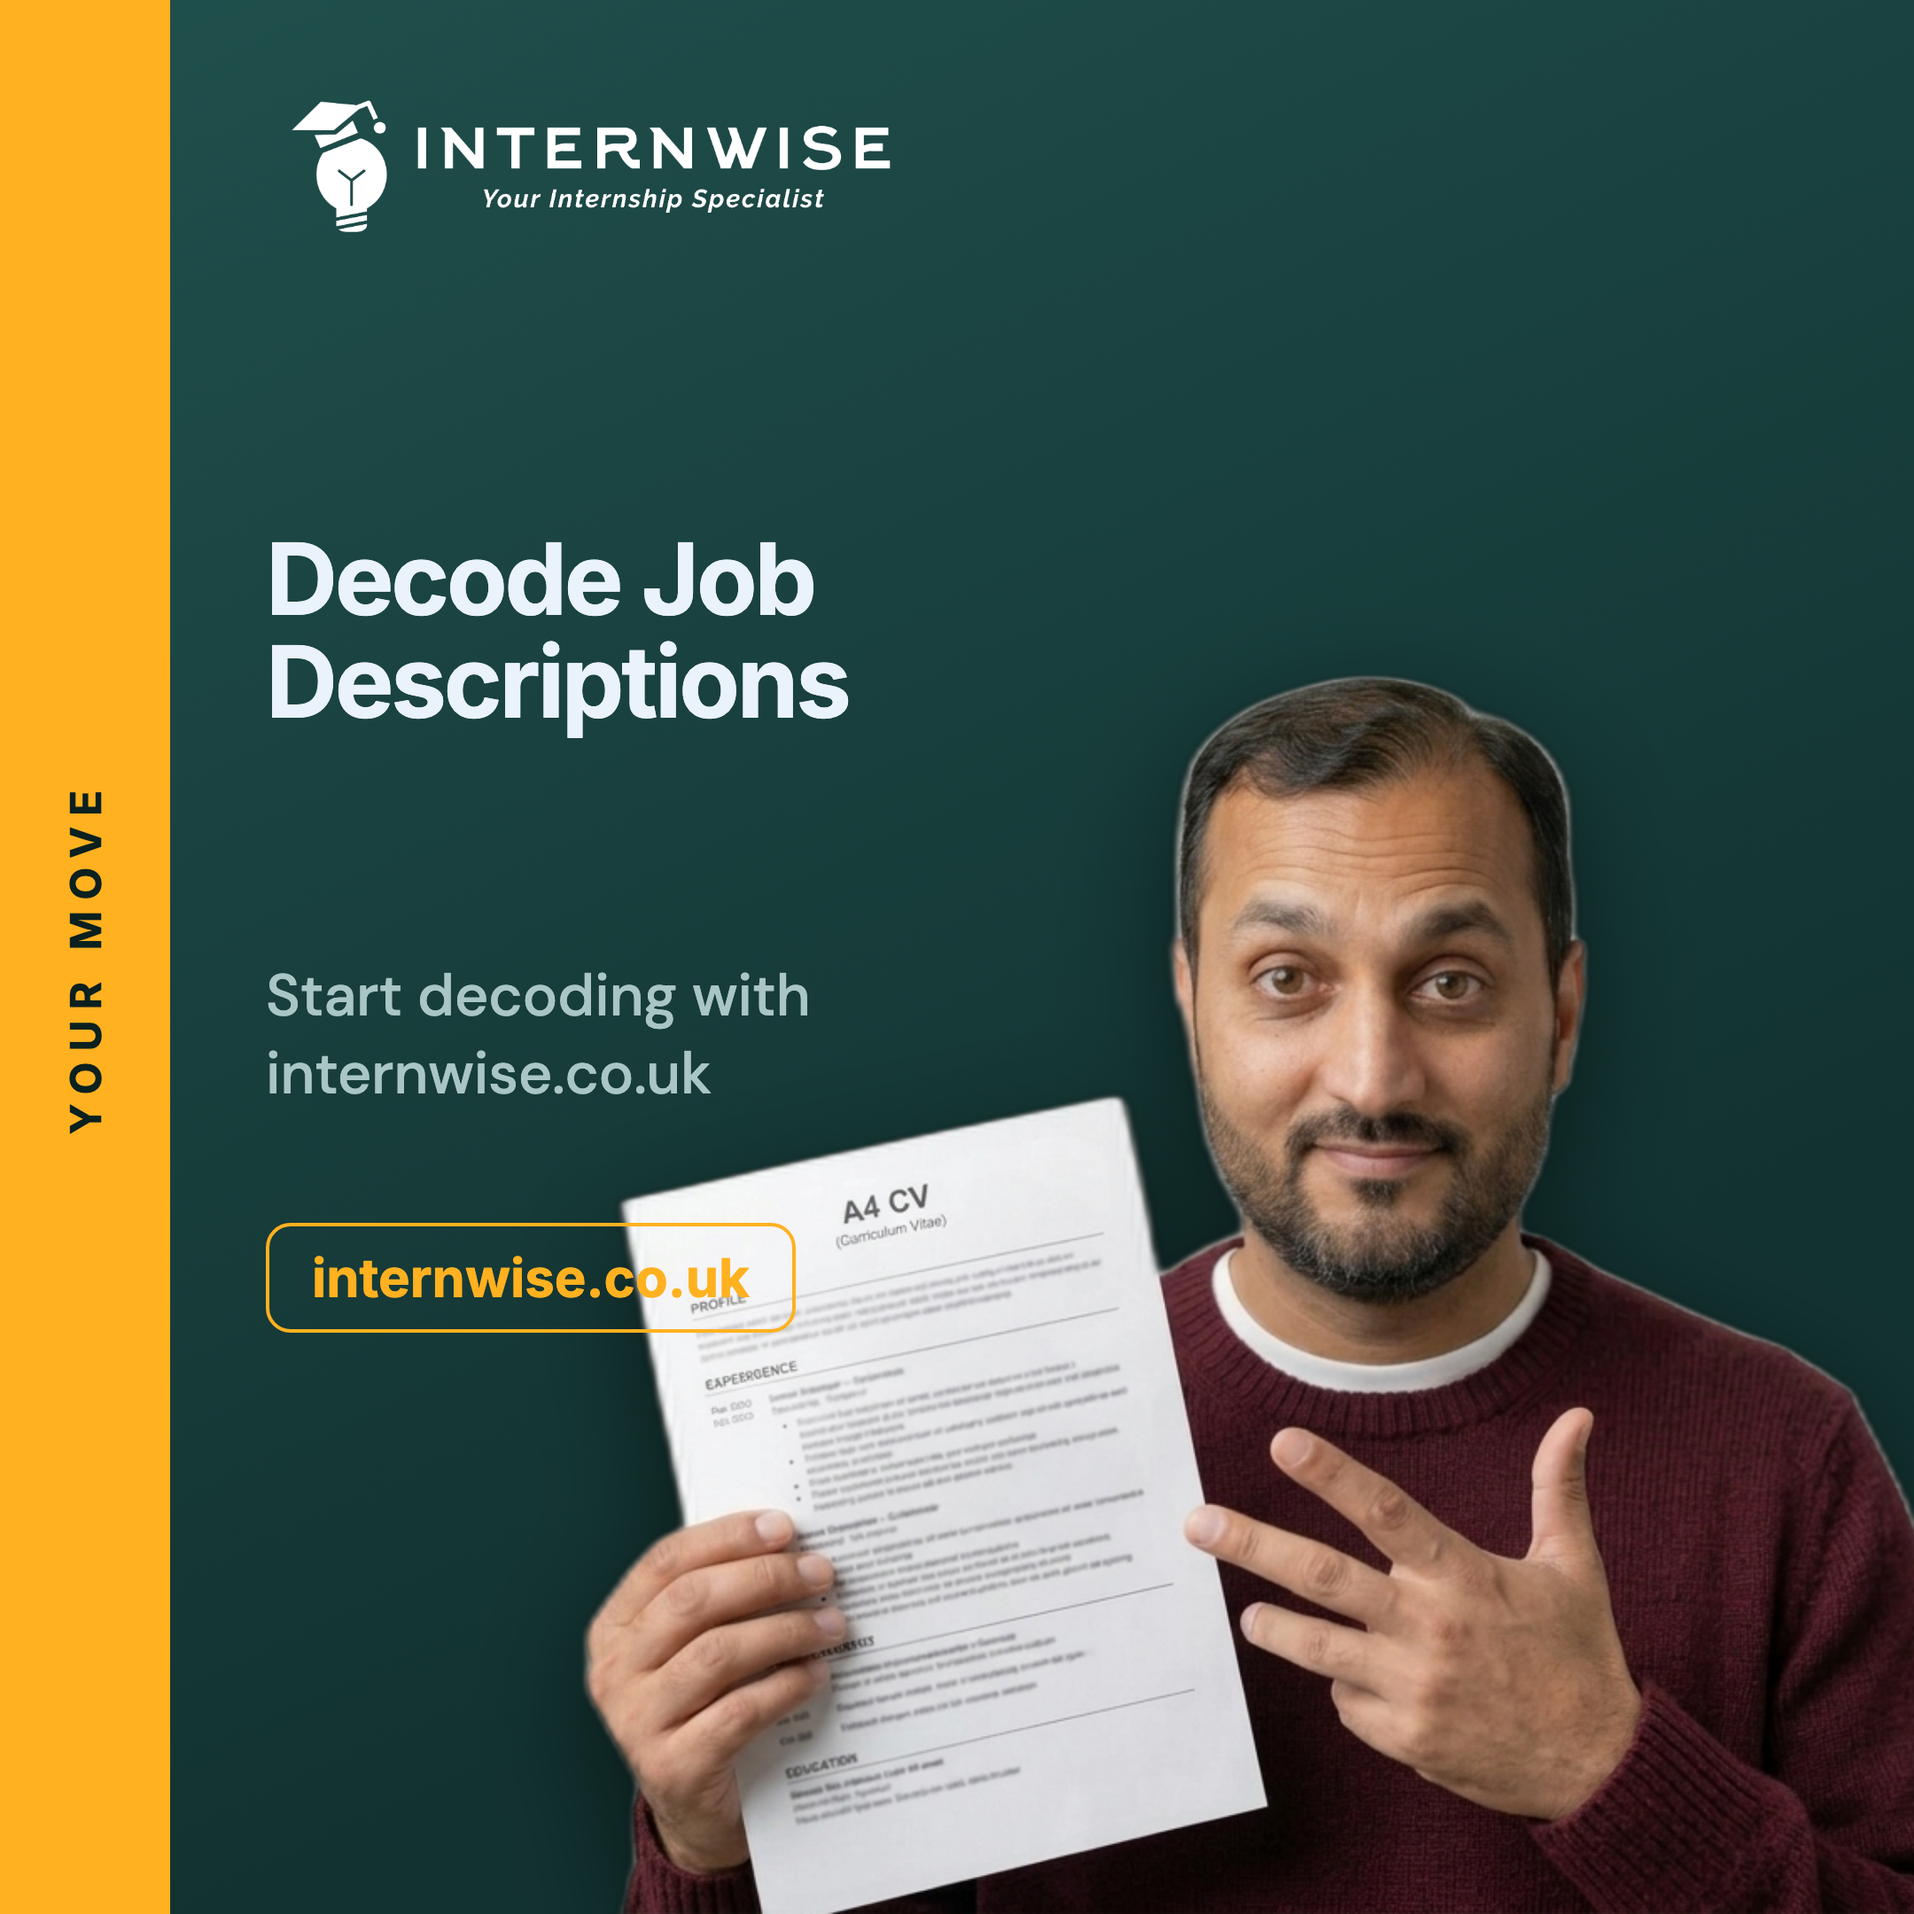
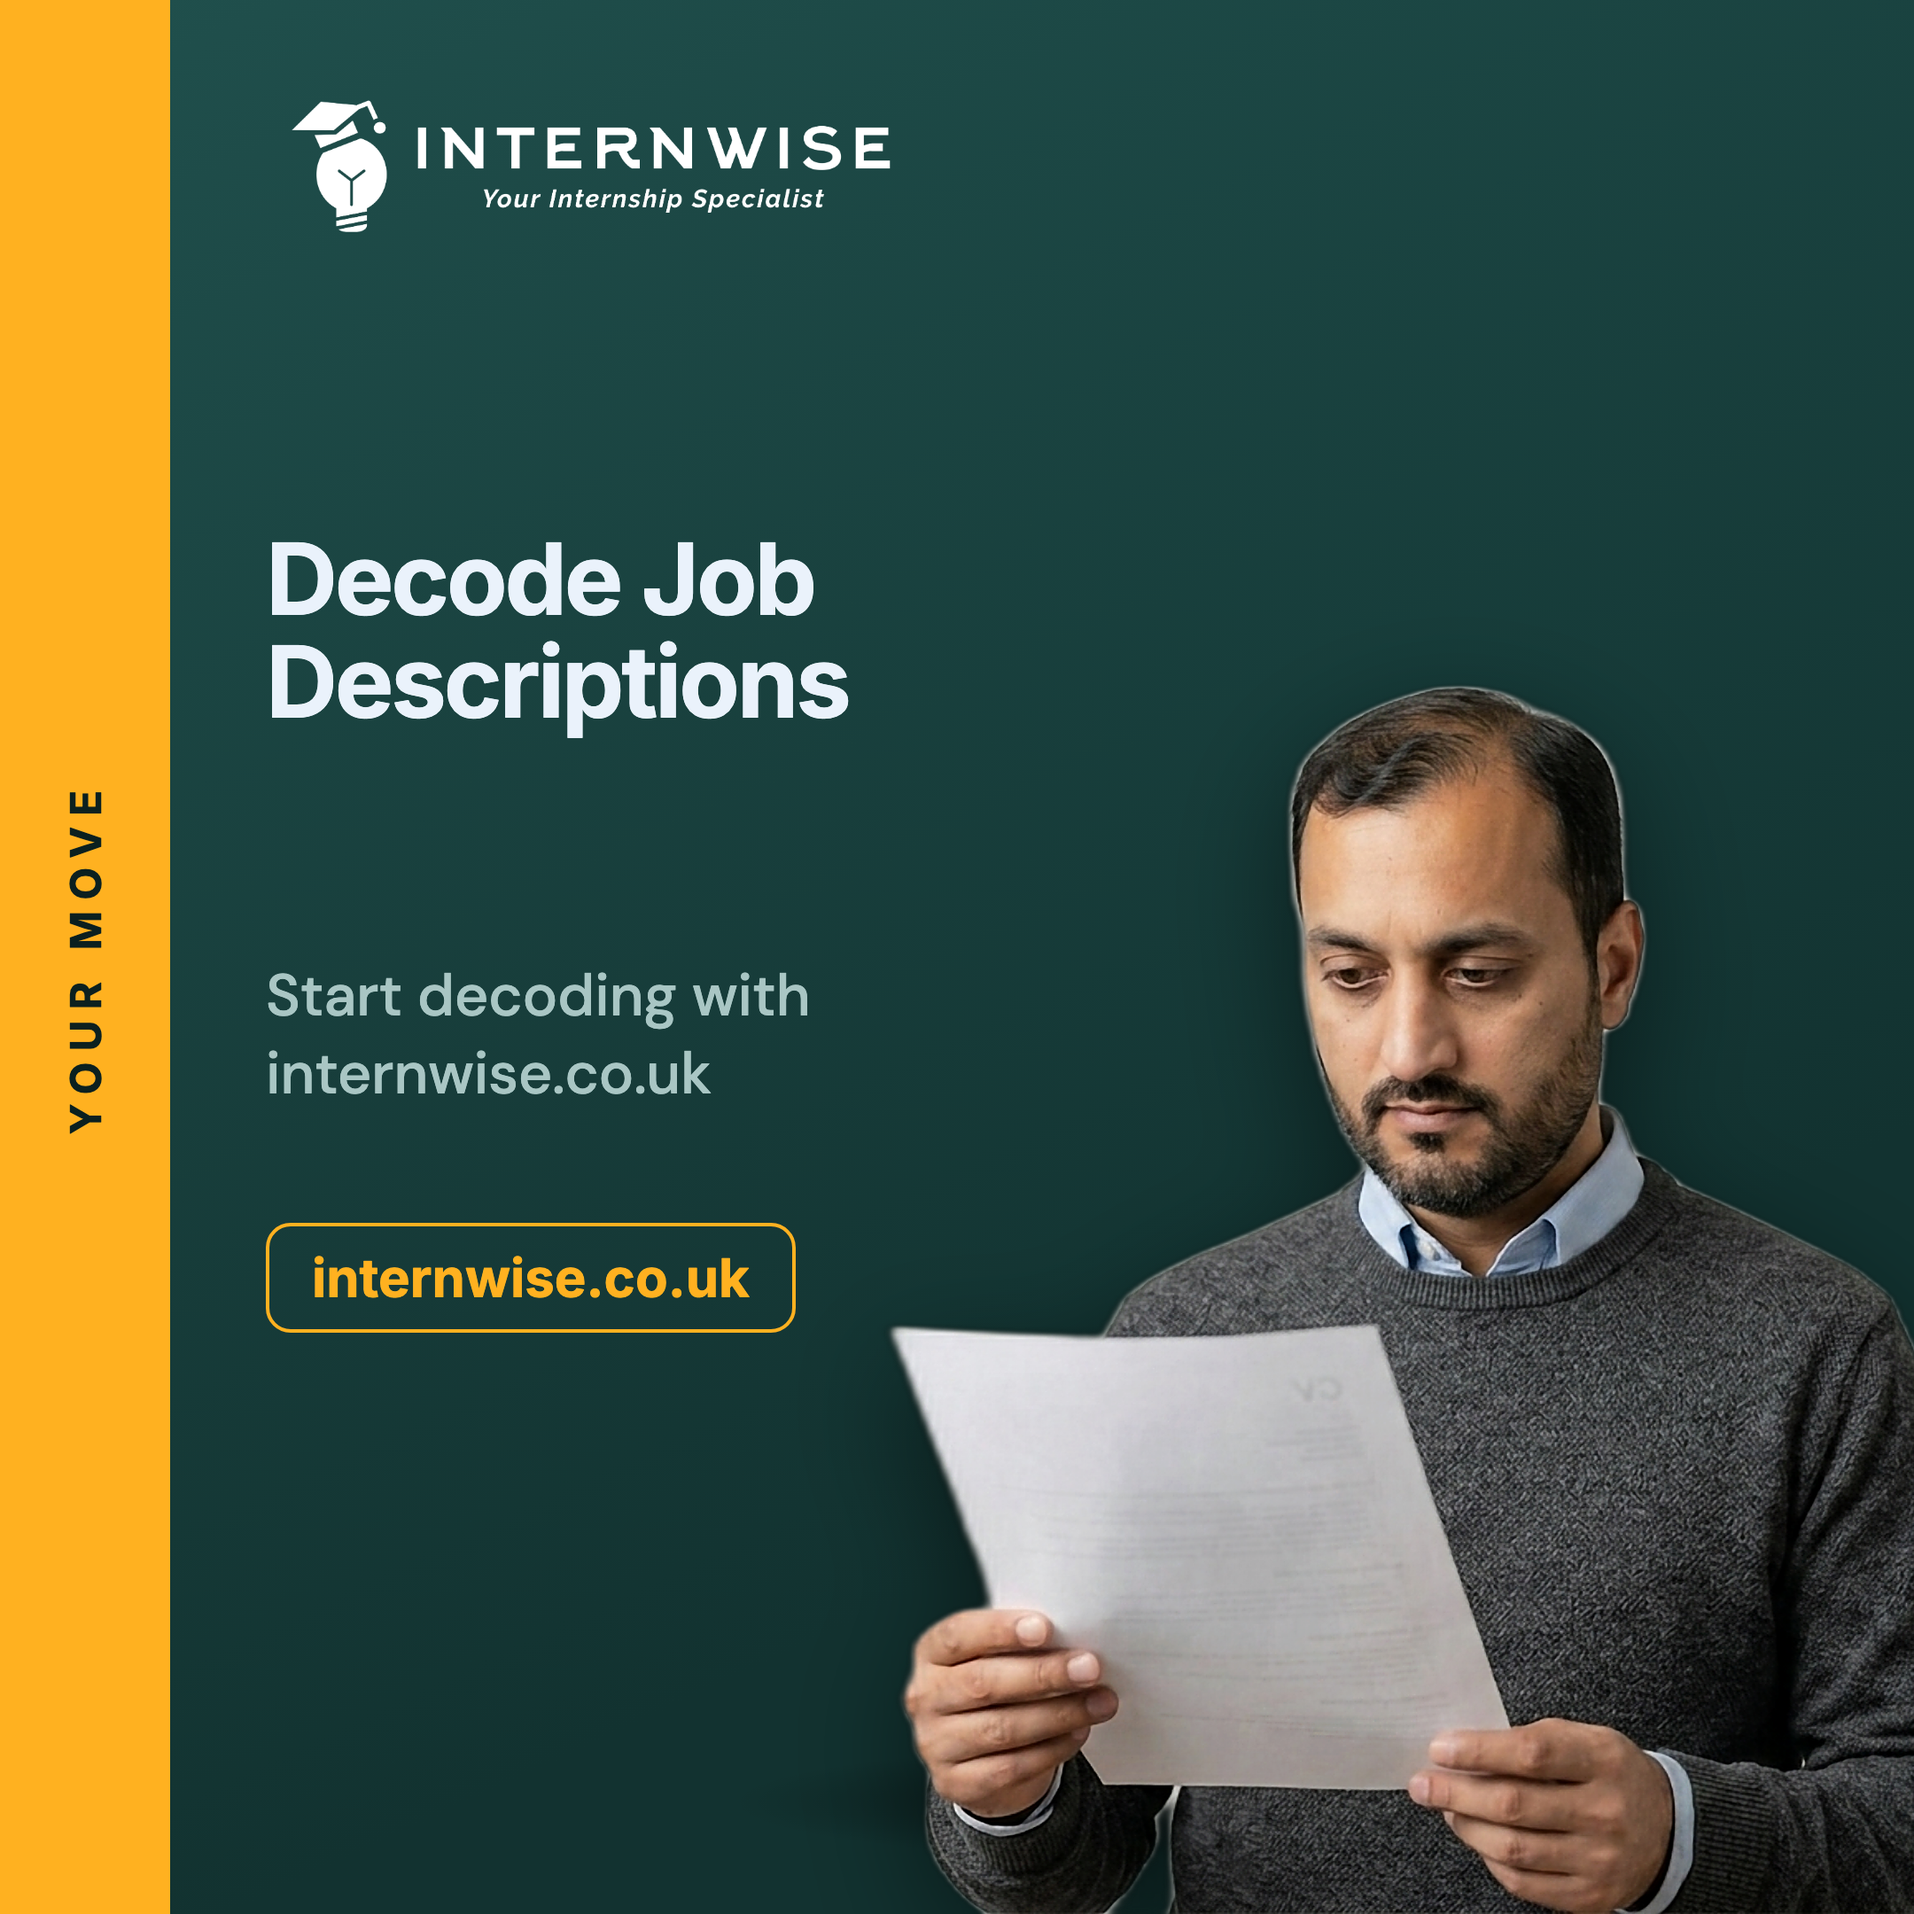
Fix week19 education outro repeat

Changed region(s): [[0.2792, 0.3412, 1.0, 1.0]]

diff --git a/social-media/tools/lane_education.py b/social-media/tools/lane_education.py
@@ -70,7 +70,7 @@ CTA_TOPIC_POSES = {
     "apply": ["nuno_dothis_1", "nuno_dothis_2", "nuno_offers_1", "nuno_dothis_4", "nuno_offers_4"],
     "cv": ["nuno_dothis_1", "nuno_dothis_2", "nuno_offers_1", "nuno_dothis_4", "nuno_offers_4"],
     "bullet_cv": ["nuno_cv_5", "nuno_cv_2", "nuno_cv_3"],
-    "job_description": ["nuno_cv_5", "nuno_dothis_1", "nuno_dothis_4"],
+    "job_description": ["nuno_cv_3"],
 }
 
 # ------------------------------------------------------------ topic-matched hook

diff --git a/social-media/DESIGN_DIRECTION.md b/social-media/DESIGN_DIRECTION.md
@@ -11,7 +11,7 @@ This is the approved creative direction for future Internwise social graphics. T
 - Use expressive typography. Inter can stay for functional text, but hero words should use contrasting treatments such as Georgia serif italic, oversized scale, colour shifts, underlines, or isolated word placement.
 - Design key words differently when they carry the meaning. Example: in "Is your cover letter too polite?", the word "Polite?" should be the visual hook, not just another word in the same font.
 - Nuno must be relevant to the post topic. Use cover-letter poses for cover-letter content, CV poses for CV content, planning poses for workflow/search/process content, and avoid generic founder cutouts when the pose does not support the message.
-- In a carousel, the CTA/outro Nuno pose must not reuse the hook/cover slide pose. Treat hook and CTA as separate beats, not a repeated image. If only one perfect custom cutout exists, use it on the hook and use the cleanest relevant alternate on the CTA rather than repeating it.
+- In a carousel, the CTA/outro Nuno pose must not reuse the hook/cover slide pose. CTA/outro poses must also be unique across education carousels within the same week, so two different carousel outros do not end on the same Nuno image. Treat hook and CTA as separate beats, not a repeated image. If only one perfect custom cutout exists, use it on the hook and use the cleanest relevant alternate on the CTA rather than repeating it.
 - If a Nuno cutout has poor background removal, visible haloing, or crops hands/arms at the canvas edge, do not ship it. Pick a cleaner existing cutout or regenerate the asset before publishing.
 - The laughing/welcoming LinkedIn cover pose and thumbs-up CTA pose are banned for education carousels. LinkedIn/profile topics must use a LinkedIn/profile-frame visual motif or another clearly profile-related treatment, never just a generic Nuno cutout.
 - Fonts should not feel uniformly corporate. Mix type roles deliberately: Inter for UI/clarity, DM Sans for labels and small navigation, Georgia serif/italic for editorial emphasis and emotional words.
